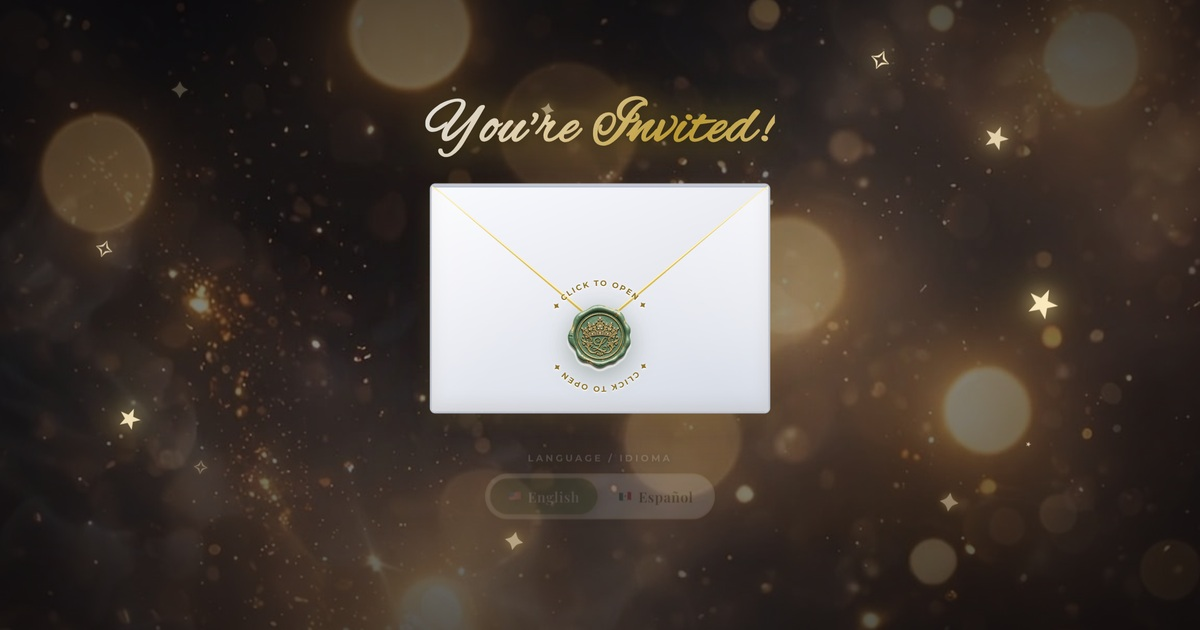
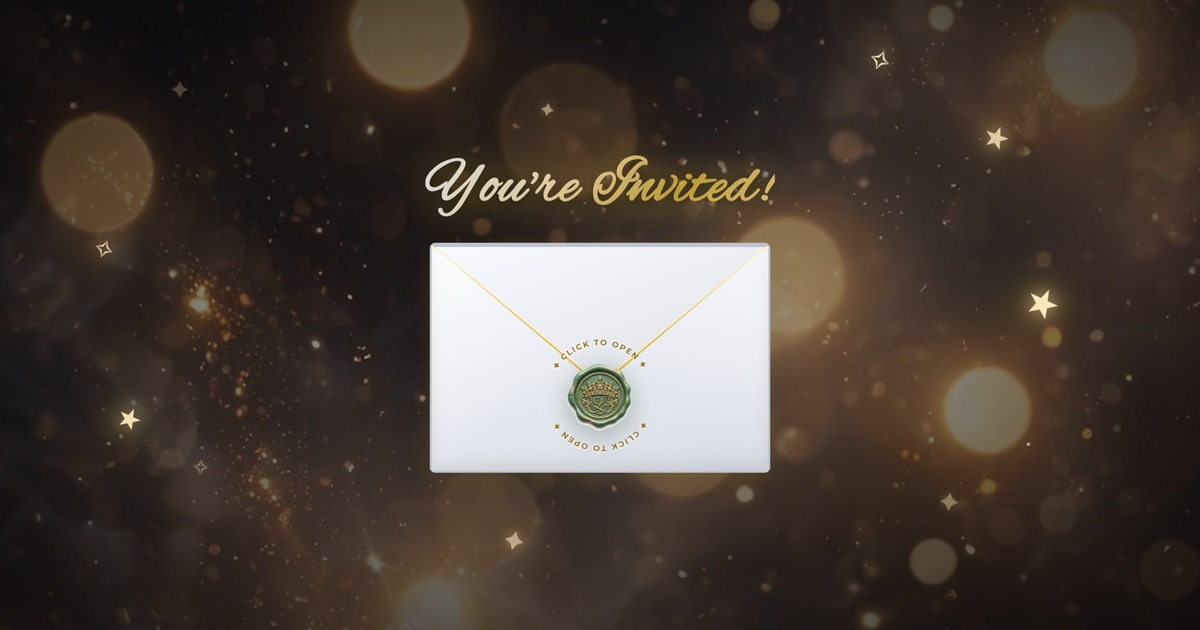
Clean up OG preview: hide language picker in preview snapshot while keeping it active on live site

diff --git a/dianalucero/index.html b/dianalucero/index.html
@@ -17,8 +17,8 @@
   <meta property="og:title" content="Diana A. Lucero — Quinceañera" />
   <meta property="og:description"
     content="Join us to celebrate Diana A. Lucero's Quinceañera! Saturday, January 9, 2027 in Dover & Oak Ridge, NJ." />
-  <meta property="og:image" content="https://disenosluna.com/dianalucero/photos/og-preview.jpg?v=4" />
-  <meta property="og:image:secure_url" content="https://disenosluna.com/dianalucero/photos/og-preview.jpg?v=4" />
+  <meta property="og:image" content="https://disenosluna.com/dianalucero/photos/og-preview.jpg?v=5" />
+  <meta property="og:image:secure_url" content="https://disenosluna.com/dianalucero/photos/og-preview.jpg?v=5" />
   <meta property="og:image:type" content="image/jpeg" />
   <meta property="og:image:width" content="1200" />
   <meta property="og:image:height" content="630" />
@@ -30,7 +30,7 @@
   <meta name="twitter:title" content="Diana A. Lucero — Quinceañera" />
   <meta name="twitter:description"
     content="Join us to celebrate Diana A. Lucero's Quinceañera! Saturday, January 9, 2027 in Dover & Oak Ridge, NJ." />
-  <meta name="twitter:image" content="https://disenosluna.com/dianalucero/photos/og-preview.jpg?v=4" />
+  <meta name="twitter:image" content="https://disenosluna.com/dianalucero/photos/og-preview.jpg?v=5" />
 
   <!-- Favicon / Apple Touch Icon -->
   <link rel="icon" type="image/svg+xml" href="favicon.svg?v=2" />
@@ -44,7 +44,7 @@
     href="https://fonts.googleapis.com/css2?family=Alex+Brush&family=Cormorant+Garamond:ital,wght@0,400;0,500;0,600;0,700;1,400&family=Montserrat:wght@300;400;500;600;700&family=Playfair+Display:ital,wght@0,400;0,600;0,700;1,400&display=swap"
     rel="stylesheet">
 
-  <link rel="stylesheet" href="style.css?v=9.5.4" />
+  <link rel="stylesheet" href="style.css?v=9.5.5" />
 </head>
 
 <body>
@@ -1004,7 +1004,7 @@
     <p class="footer-date" data-i18n="footer-date">Saturday, January 9, 2027</p>
   </footer>
 
-  <script src="main.js?v=9.4.6"></script>
+  <script src="main.js?v=9.4.7"></script>
 </body>
 
 </html>

diff --git a/dianalucero/main.js b/dianalucero/main.js
@@ -267,7 +267,11 @@ document.addEventListener('DOMContentLoaded', () => {
   });
 
   // Default to English on startup unless specified by ?lang=
-  const urlLang = new URLSearchParams(window.location.search).get('lang');
+  const urlParams = new URLSearchParams(window.location.search);
+  const urlLang = urlParams.get('lang');
+  if (urlParams.has('og_preview')) {
+    document.body.classList.add('og-preview-mode');
+  }
   applyLanguage(urlLang === 'es' ? 'es' : 'en');
 
   // Collapsible utility tabs (Language bar top-left, audio bar top-right)

diff --git a/dianalucero/style.css b/dianalucero/style.css
@@ -5429,9 +5429,10 @@ body:not(.site-entered) {
 }
 
 /* Fade away once the envelope opens */
-.entry-overlay.is-opened .entry-lang-picker {
+.entry-overlay.is-opened .entry-lang-picker,
+body.og-preview-mode .entry-lang-picker {
   opacity: 0;
-  transform: translateY(10px);
+  display: none !important;
   pointer-events: none;
 }
 

diff --git a/.agents/skills/quince-workflow/scripts/capture_og_preview.py b/.agents/skills/quince-workflow/scripts/capture_og_preview.py
@@ -29,7 +29,7 @@ def capture_og(project_dir, port=8099):
         "--force-device-scale-factor=2",
         "--window-size=1200,630",
         f"--screenshot={raw_shot}",
-        f"http://localhost:{port}/index.html"
+        f"http://localhost:{port}/index.html?og_preview=1"
     ]
 
     try:
